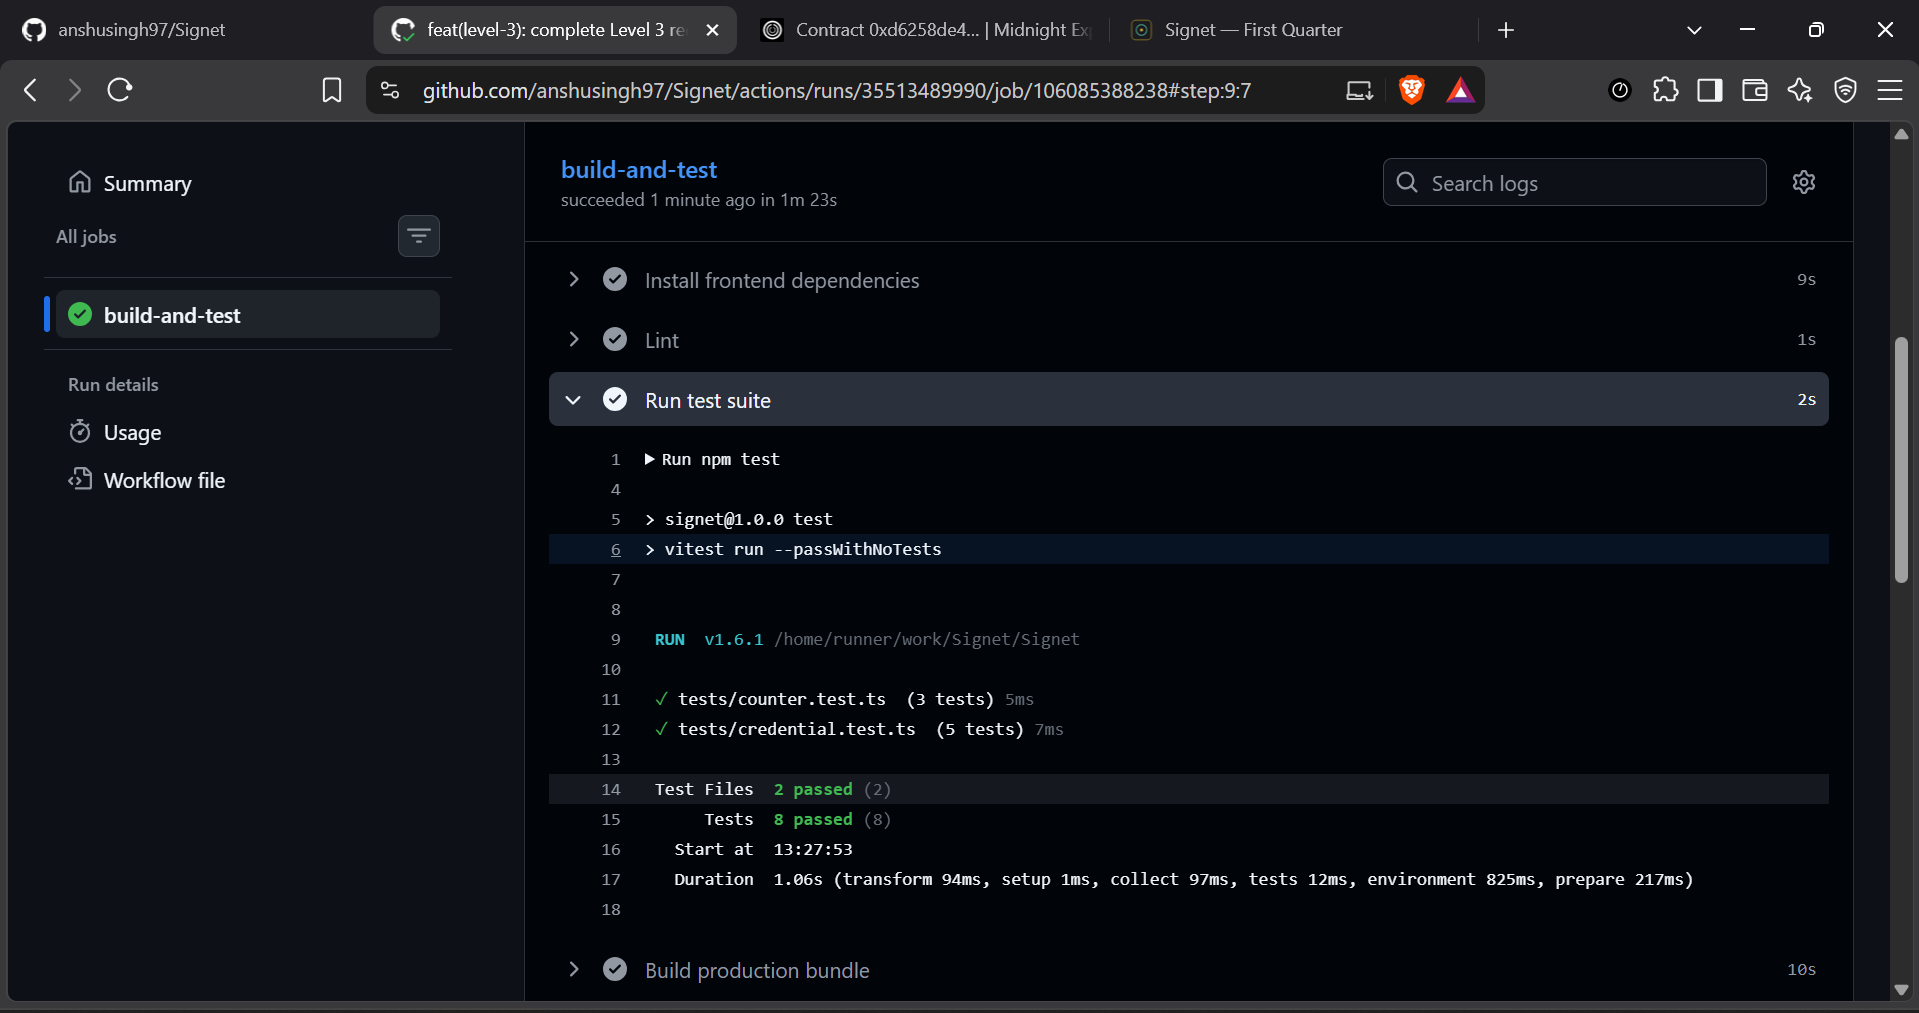
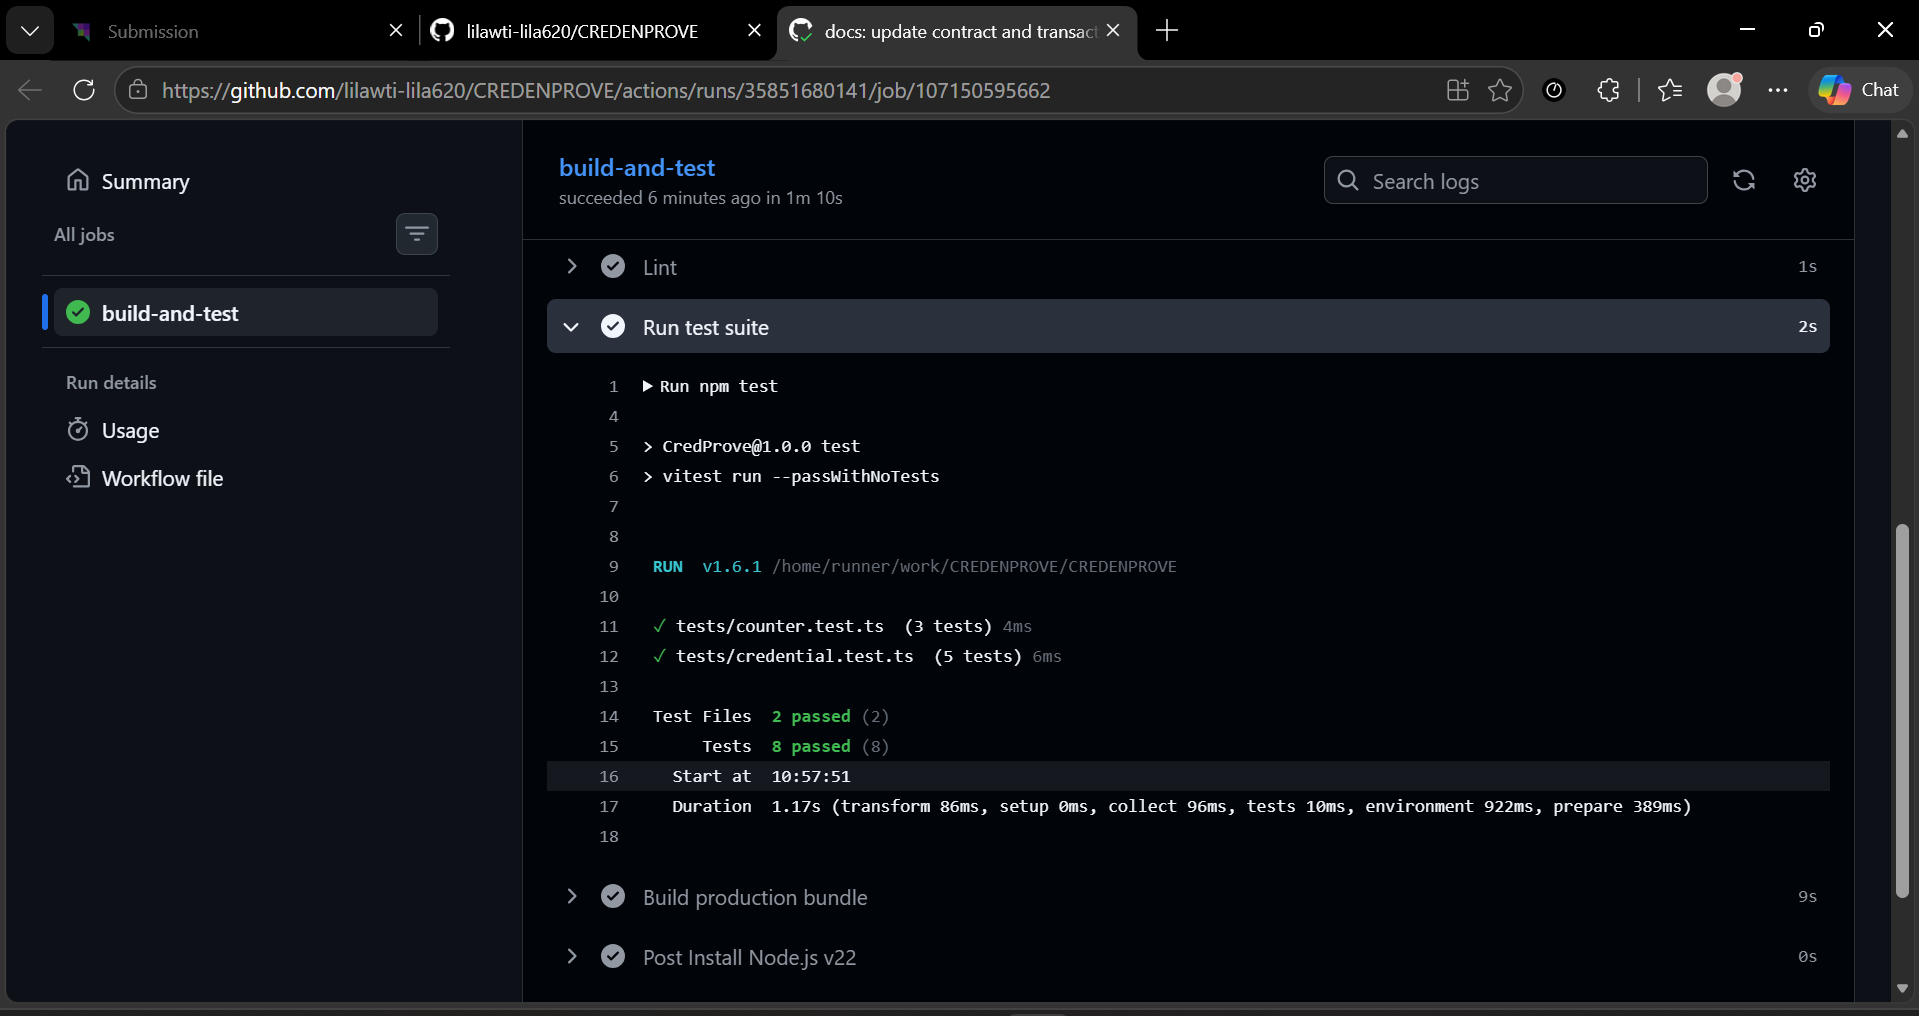
docs: update README with new screenshots

diff --git a/README.md b/README.md
@@ -16,7 +16,7 @@ https://credenprove.vercel.app
 - 🔍 **Contract on Midnight Explorer:** [View Preprod Contract](https://preprod.midnightexplorer.com/contracts/0xd6f9af1c8241e874ecef7482db25153e23415d55c7c3f3b5b5d389d9308b79a2)
 - ⚡ **Confirmed On-Chain Transaction:** [View Extrinsic on 1AM Explorer](https://explorer.1am.xyz/tx/1e6c3a0ef62f1a5ecc53f237f8be9dd3b5b212d3f5e2a85cd3ae3ec366d36215?network=preprod)
 
-![Preprod Contract Explorer](./screenshots/contract-link.png)
+![Preprod Contract Explorer](./screenshots/contract%20on%20chain.png)
 
 ## What This Does
 CredProve lets an organization or issuer open a "gate" in front of a restricted resource—such as a developer channel, a grant distribution pool, an exclusive voting round, or an accredited community.
@@ -28,7 +28,7 @@ The gate requires a credential at or above a specified tier. Using zero-knowledg
 
 The application generates a client-side zero-knowledge proof, pays network fees using Midnight DUST, balances the transaction with 1AM Wallet, and submits the proof on-chain to the Preprod network, leaving only a cryptographic nullifier and an incremented verification counter.
 
-![Interactive Product UI](./screenshots/product-ui.png)
+![Interactive Product UI](./screenshots/product%20ui.png)
 
 ## Privacy Model
 - PUBLIC:
@@ -83,7 +83,7 @@ npm run build
 npm test
 ```
 
-![Test Suite Output](./screenshots/test-output.png)
+![Test Suite Output](./screenshots/test%20output.png)
 
 ## CI/CD
 The repository uses GitHub Actions (`.github/workflows/ci.yml`) configured to automatically trigger on every `push` and `pull_request` to the `main` branch.
@@ -104,10 +104,11 @@ A status badge is located at the top of this README showing live workflow status
 
 | Screenshot | Description |
 | :--- | :--- |
-| **Product UI**<br>![Product UI](./screenshots/product-ui.png) | Interactive dApp interface with live 1AM Wallet integration, credential selection, ZK proof generation, and verification status. |
-| **On-Chain Transaction**<br>![Transaction](./screenshots/transaction-link.png) | Confirmed transaction on Midnight Preprod Explorer with cryptographic proof verification and ledger state update.<br>🔗 [View on 1AM Explorer](https://explorer.1am.xyz/tx/1e6c3a0ef62f1a5ecc53f237f8be9dd3b5b212d3f5e2a85cd3ae3ec366d36215?network=preprod) |
-| **Contract Explorer**<br>![Contract Explorer](./screenshots/contract-link.png) | Midnight Explorer contract page for `d6f9af1c82...` showing contract state, actions, and verification history.<br>🔗 [View on Midnight Explorer](https://preprod.midnightexplorer.com/contracts/0xd6f9af1c8241e874ecef7482db25153e23415d55c7c3f3b5b5d389d9308b79a2) |
-| **Test Output (8 Passing)**<br>![Tests Output](./screenshots/test-output.png) | Vitest test execution output showing 8 passing tests across `tests/counter.test.ts` and `tests/credential.test.ts`. |
+| **Product UI**<br>![Product UI](./screenshots/product%20ui.png) | Interactive dApp interface with live 1AM Wallet integration, credential selection, ZK proof generation, and verification status. |
+| **On-Chain Transaction**<br>![Transaction](./screenshots/transaction%20sucess%20verified.png) | Confirmed transaction on Midnight Preprod Explorer with cryptographic proof verification and ledger state update.<br>🔗 [View on 1AM Explorer](https://explorer.1am.xyz/tx/1e6c3a0ef62f1a5ecc53f237f8be9dd3b5b212d3f5e2a85cd3ae3ec366d36215?network=preprod) |
+| **Contract Explorer**<br>![Contract Explorer](./screenshots/contract%20on%20chain.png) | Midnight Explorer contract page for `d6f9af1c82...` showing contract state, actions, and verification history.<br>🔗 [View on Midnight Explorer](https://preprod.midnightexplorer.com/contracts/0xd6f9af1c8241e874ecef7482db25153e23415d55c7c3f3b5b5d389d9308b79a2) |
+| **Deployment Success**<br>![Success](./screenshots/sucess.png) | GitHub Actions CI/CD output showing the successful compilation and deployment of the smart contract to the Midnight Preprod Network. |
+| **Test Output (8 Passing)**<br>![Tests Output](./screenshots/test%20output.png) | Vitest test execution output showing 8 passing tests across `tests/counter.test.ts` and `tests/credential.test.ts`. |
 
 ## Product Proposal
 See [PROPOSAL.md](./PROPOSAL.md) for the complete product specification, target user personas, Midnight architectural rationale, data model, and roadmap to Mainnet.
